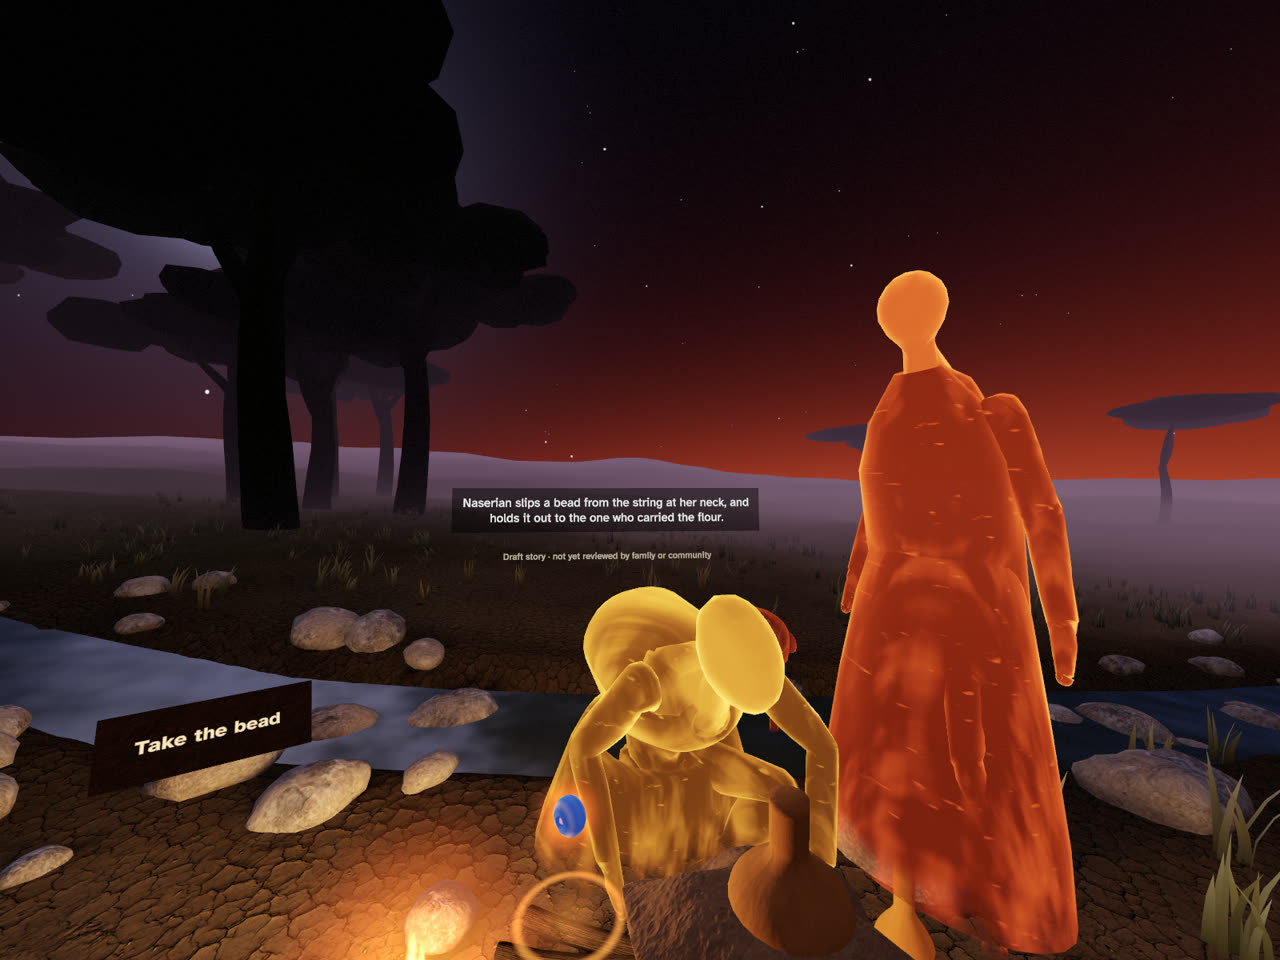
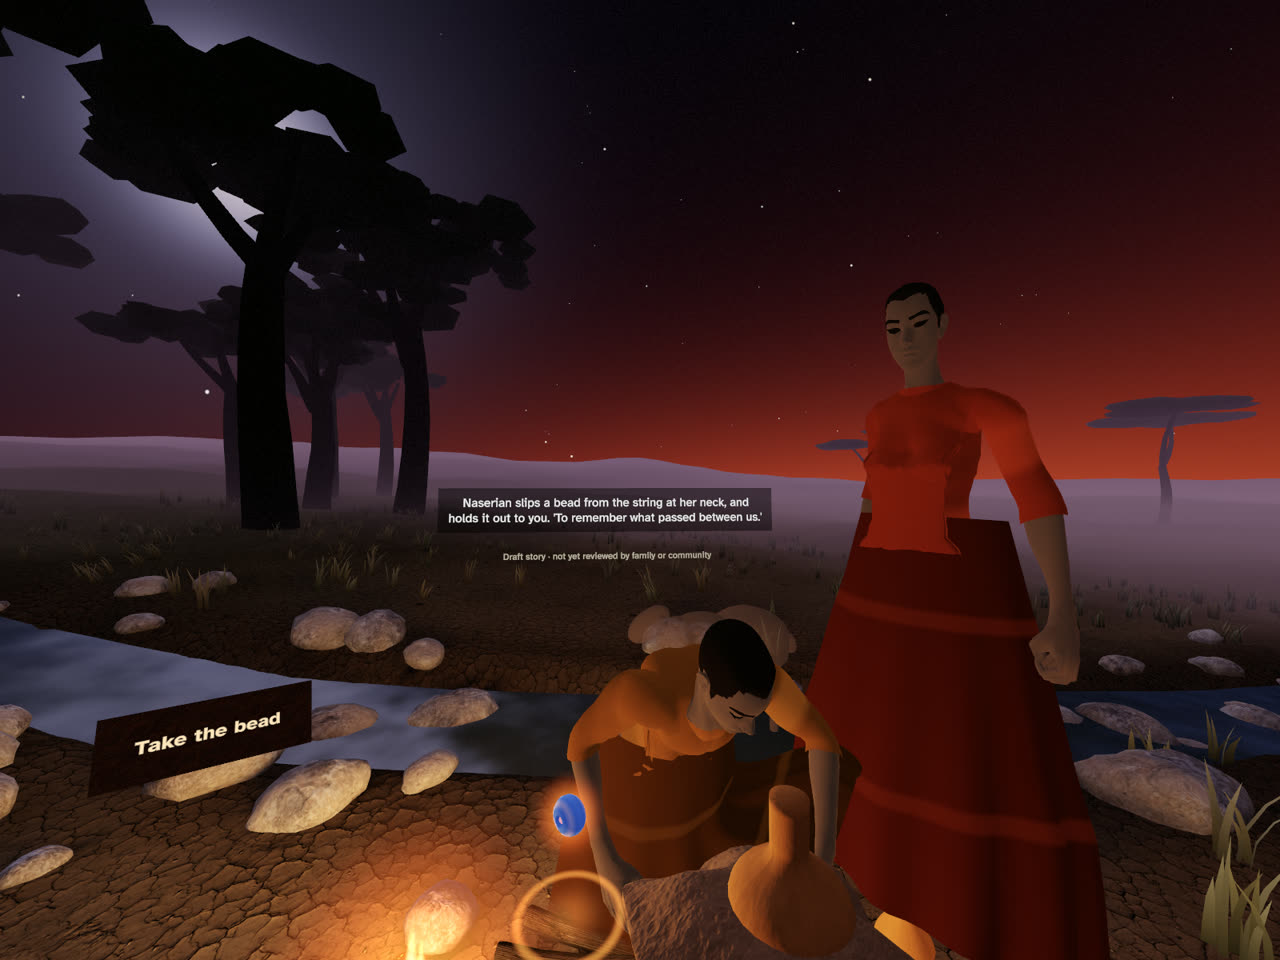
docs: show revised figures and record polished journey verification

diff --git a/docs/decisions.md b/docs/decisions.md
@@ -362,3 +362,20 @@ A seventh panel scored the round 10 build on desktop captures and held every sco
 - **Tests:** the pause test holds most of the dwell before pausing, so it fails if a hold carried over a pause.
 
 Desktop captures only.
+
+
+## Polish round 12: fitted figures and a directed exchange — October 11, 2026
+
+This pass responds to the October 9 independent panel and the user's request for a substantial improvement to figures and immersion. It changes presentation and recovery within the existing Enkare Nairobi slice. SK-11 (visual production), SK-14 (recovery), SK-15 (comfort/performance) and SK-12 (accurate memory) are affected; improved polish, readable embodied interaction and reliable technical behavior are the relevant judging goals. Desktop captures and software checks are evidence of implementation, not acceptance on Quest.
+
+- **Figures:** replace the mannequin body with Quaternius's CC0 Universal Base Characters female and short hair, retain the compatible CC0 animation clips and expose anatomical faces and individual fingers, replace rigid lathed garment shells with a fitted skinned torso and folded skinned wrap, clip clean hem/neck/sleeve edges with interpolated skin weights instead of selecting ragged bone boundaries, and distinguish warm bronze bodies from quieter woven fabric. The figure shader uses the scene's actual lantern/fire and ambient light, with a restrained ember outline. Reveal opacity is separate from light intensity, so flicker no longer makes clothing transparent. Echoes retain their own brighter memory treatment. Plain clothing is a theatrical draft awaiting cultural review.
+- **Sharing:** the giver approaches, both women raise and settle their vessels through two-arm posing, the giver tilts hers, a small visible flour stream joins the mouths, and both attend to the exchange before release. Authored actions start this performance; presentation cannot create a new story outcome. Pause freezes its clock.
+- **Environment:** smaller, more numerous foliage clusters break the tree and acacia silhouettes; greener canopy material reveals some volume; a cooler, less uniformly overcast dawn separates the lantern and figures from the camp. The first foliage version exceeded 300,000 triangles and was reduced without raising that budget.
+- **Truthful address:** the bead remains a hospitable gift on both paths, without claiming a passive visitor carried flour. The return line promises the saved story and choices and offers a continuation only if one exists. Three voice clips were regenerated with the existing approved voice to match their captions.
+- **Recovery:** figure paths, reaches, delayed handovers, moving props and rising echoes keep coordinates in the stage when it is recentered or its height changes. Pointer recovery and hand/controller switching require a neutral sample before a fresh pinch can act.
+- **Keeping and forgetting:** replacement writes one active shelf atomically. A durable empty shelf prevents an obsolete legacy JSON from reappearing after a crash or failed cleanup. Cleanup failures remain reported; corrupt legacy records are not silently deleted. Old per-visit records can be read for migration, and the generic legacy `Save` API remains available, but application Keep uses `Replace`.
+- **Replay and attention:** the README now states the implemented path/outcome replay contract. Saved interrupted questions and timing are still not replayed; full SK-12 remains open. The closing describes returning attention rather than falsely claiming a duration-based “looked longest” measurement.
+
+Verification: **114 .NET checks, 19 EditMode checks and 11 PlayMode checks passed** on the final implementation. The full PlayMode run covers both eras, passive completion, input, keep/continue/path replay, stale echoes, early return, stage recovery and pouring, and renders the journey plus close-up standing, kneeling and sharing studies. EditMode checks additionally validate every skin weight, animation binding and the complete garment after Unity baking. The fit check exposed a read-only mesh clone that rejected geometry writes; generation now owns writable meshes and imports the required CPU geometry. Garments are authored against the weighted bind matrices.
+
+Visible scene budgets, counting both figure passes, are 123,877 triangles at the hearth, 261,968 before the railway, 222,536 in 1899 and 149,748 today (17–63 enabled renderers). These are geometry proxies, not measured device frame rates. No new judging panel or score was obtained. Actual Quest performance, cultural/context review, custom grip/facial acting and full realised question replay remain open. The changed figures are a new production base, not accepted historical costume or participant evidence.

diff --git a/README.md b/README.md
@@ -2,7 +2,7 @@
 
 **Sankofa — a story that notices what you notice.**
 
-A hands-first storytelling experience for Meta Quest. You sit at a night fire, and the fire is the griot. It welcomes you, asks when you would like to go, and brings a history into the space around you without moving you. You enter through its flame. People appear as shapes of firelight; you carry, receive and touch things, and the story changes with what you did. You return to the hearth with a keepsake and a thread to follow next time.
+A hands-first storytelling experience for Meta Quest. You sit at a night fire, and the fire is the griot. It welcomes you, asks when you would like to go, and brings a history into the space around you without moving you. You enter through its flame. People emerge in firelight; you carry, receive and touch things, and the story changes with what you did. You return to the hearth with a keepsake and a thread to follow next time.
 
 The first story is **Enkare Nairobi**, the cool-water stream that gave Nairobi its name, where Kikuyu and Maasai women traded. It is told across two eras and today:
 
@@ -22,7 +22,7 @@ Desktop renders from the seated eye, made by the capture test. They are not head
 |---|---|
 | ![The hearth at night: the fire, a log seat and the stars](docs/media/hearth.jpg) | ![The stream at dusk in the 1850s, the forest to the left and the plain beyond](docs/media/dusk-1850s.jpg) |
 | The hearth, where the fire speaks | Before the railway: the stream at dusk |
-| ![Naserian, a figure of firelight, holds a bead out beside the trading hide](docs/media/bead-offered.jpg) | ![Njeri and Naisula among the railway camp's tents, 1899](docs/media/railway-1899.jpg) |
+| ![Naserian holds a bead out beside the trading hide](docs/media/bead-offered.jpg) | ![Njeri and Naisula among the railway camp's tents, 1899](docs/media/railway-1899.jpg) |
 | The bead is offered | When the railway came: the granddaughters |
 | ![The city at night across the river, a jiko burning in front](docs/media/river-today.jpg) | ![Back at the hearth, the bead waits beside the choice to keep the visit](docs/media/keepsake.jpg) |
 | The same water today | Home, with the keepsake |
@@ -35,6 +35,18 @@ Desktop renders from the seated eye, made by the capture test. They are not head
 
 *Home again: what the visitor lingered on rises out of the fire.*
 
+## Figure revision
+
+![The same 1899 journey view before and after the character and lighting revision](docs/media/figures-comparison.jpg)
+
+*Left: the previous build (`e2dbd82`). Right: the current character revision. Both are actual desktop journey captures with the same camera framing.*
+
+| Standing | Kneeling | Sharing |
+|---|---|---|
+| ![The new skinned figure standing in lantern light](docs/media/figure-standing.jpg) | ![The skinned wrap covering the kneeling pose](docs/media/figure-kneeling.jpg) | ![Two women settling and pouring between their gourds](docs/media/figure-sharing.jpg) |
+
+*Close-up pose studies from the runtime, staged for inspection with captions hidden. These are presentation studies, not proof of visitor hand tracking or historical dress.*
+
 ## Status
 
 The full slice runs in software: a Unity project for Quest and an engine-free story core.
@@ -44,7 +56,7 @@ The full slice runs in software: a Unity project for Quest and an engine-free st
 | Story | Both eras and today are written, validated on every route, and narrated in 85 pre-rendered lines |
 | Interaction | Hands throughout: an open palm, touch, fingertip presses, or point and pinch. Touch controllers are optional |
 | Visits | A start screen, passive progression, questions and pause. Visits are kept only by explicit choice, and can replay the same path and outcomes, continue to today or be forgotten; questions and interruption timing are not replayed |
-| Figures | They walk in, kneel, carry their things, hand them over and walk away, and look back when you look at them |
+| Figures | Skinned garments, walk/kneel/give performances, directed gourd sharing, and a glance when your attention rests on them |
 | Sound | Field recordings (CC0 and CC BY, credited in the app). Nothing is synthesised, and there is no music |
 
 Not yet established:
